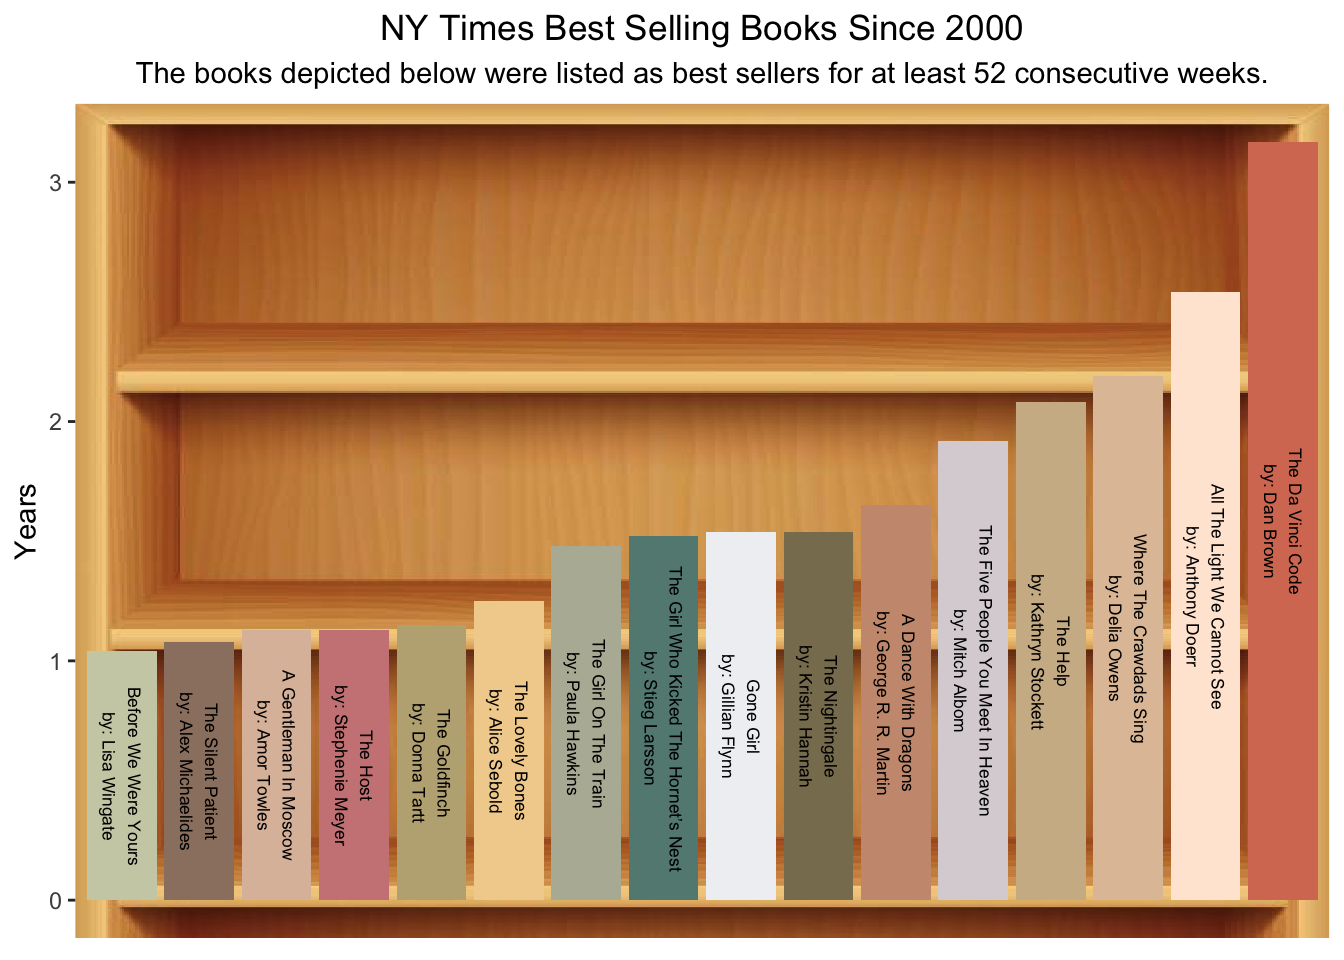
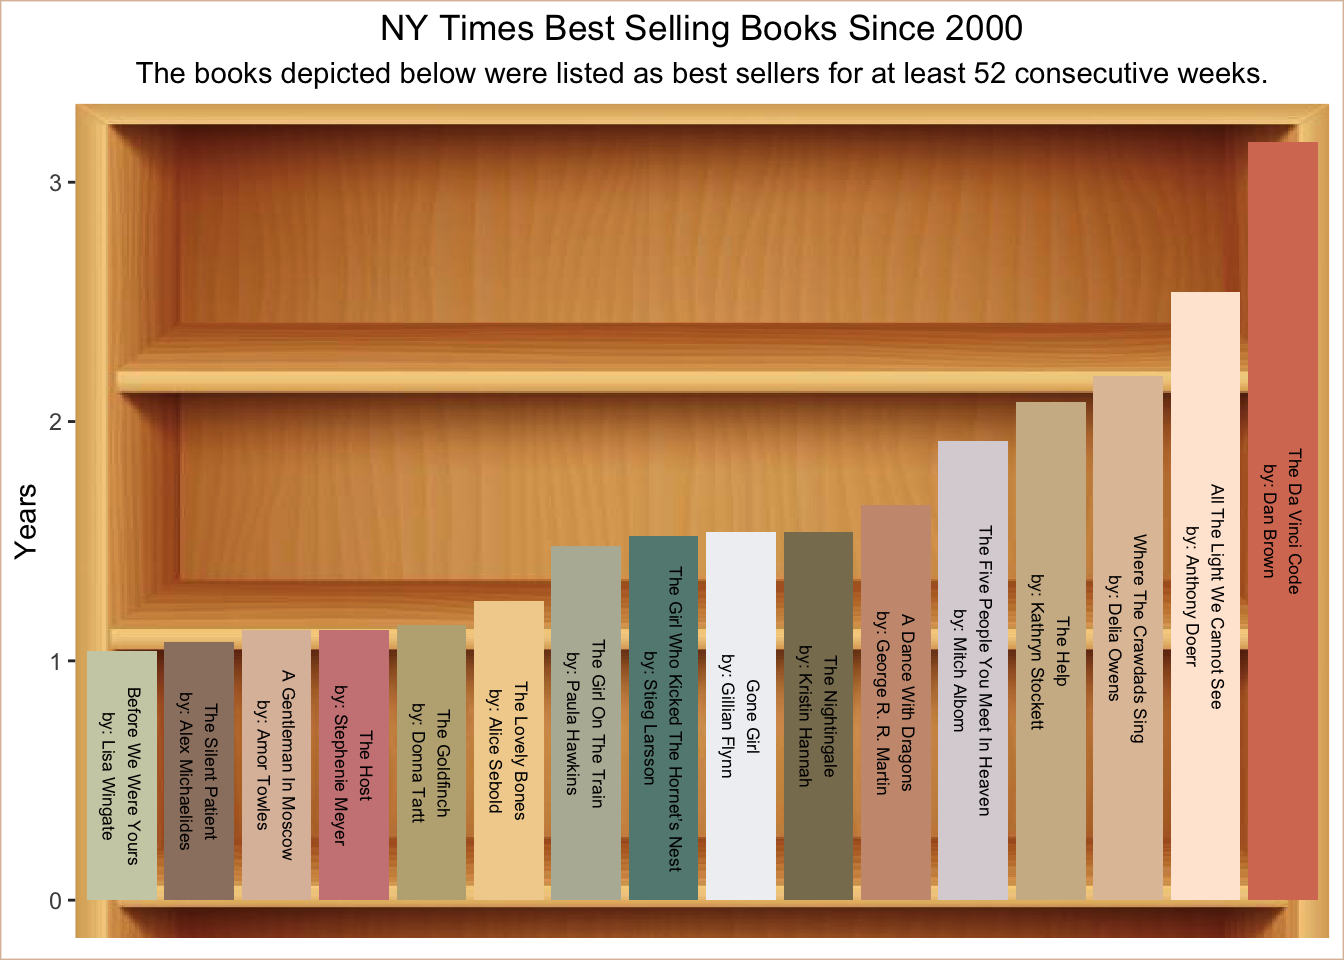
deleted phone number and added to NYT Best Sellers

diff --git a/content/post/Tidy Tuesday - NY Times Best Sellers/index.en.md b/content/post/Tidy Tuesday - NY Times Best Sellers/index.en.md
@@ -1,14 +1,14 @@
 ---
-title: TEST
-author: R package build
+title: Tidy Tuesday Visualizations - NY Times Best Sellers
+author: Hana
 date: '2023-03-21'
-slug: test
+slug: Tidy Tuesday - Visualization
 categories: []
 tags:
   - Data Analysis
   - Visualizations
   - TidyTuesday
-subtitle: ''
+subtitle: 'May 11, 2022 - Tidy Tuesday Data Visualization'
 summary: ''
 authors: []
 lastmod: '2023-03-21T18:54:23-04:00'
@@ -20,15 +20,20 @@ image:
   preview_only: no
 projects: []
 ---
+
+As an avid reader, I was particularly interested in this dataset. I am constantly looking for a new *best* book to read so this dataset was particularly fun to work with. 
+
+
 ## Loading Packages / Data
 
 
-```r
-library("pacman") 
-p_load(dplyr, tidyverse, extrafont, ggplot2, lubridate, tidyr, data.table, rlist, xlsx, tidytuesdayR, ggpubr, jpeg)
 
-
-tuesdata <- tidytuesdayR::tt_load('2022-05-10')
+```
+## Only 10 Github queries remaining until 2023-03-22 03:33:18 PM EDT.
+## Only 10 Github queries remaining until 2023-03-22 03:33:18 PM EDT.
+## Only 10 Github queries remaining until 2023-03-22 03:33:18 PM EDT.
+## Only 10 Github queries remaining until 2023-03-22 03:33:18 PM EDT.
+## Only 10 Github queries remaining until 2023-03-22 03:33:18 PM EDT.
 ```
 
 ```
@@ -36,7 +41,15 @@ tuesdata <- tidytuesdayR::tt_load('2022-05-10')
 ```
 
 ```
+## Only 9 Github queries remaining until 2023-03-22 03:33:18 PM EDT.
+```
+
+```
 ## --- There are 2 files available ---
+```
+
+```
+## Only 8 Github queries remaining until 2023-03-22 03:33:18 PM EDT.
 ```
 
 ```
@@ -44,12 +57,15 @@ tuesdata <- tidytuesdayR::tt_load('2022-05-10')
 ```
 
 ```
-## 
+## Only 8 Github queries remaining until 2023-03-22 03:33:18 PM EDT.
+```
+
+```
 ## 	Downloading file 1 of 2: `nyt_titles.tsv`
 ```
 
 ```
-## Only 10 Github queries remaining until 2023-03-21 07:44:01 PM EDT.
+## Only 7 Github queries remaining until 2023-03-22 03:33:17 PM EDT.
 ```
 
 ```
@@ -57,7 +73,7 @@ tuesdata <- tidytuesdayR::tt_load('2022-05-10')
 ```
 
 ```
-## Only 9 Github queries remaining until 2023-03-21 07:44:00 PM EDT.
+## Only 6 Github queries remaining until 2023-03-22 03:33:17 PM EDT.
 ```
 
 ```
@@ -71,16 +87,9 @@ tuesdata <- tidytuesdayR::tt_load('2022-05-10')
 ## --- Download complete ---
 ```
 
-```r
-tuesdata <- tidytuesdayR::tt_load(2022, week = 19)
 ```
-
-```
-## Only 8 Github queries remaining until 2023-03-21 07:44:01 PM EDT.
-```
-
-```
-## Only 8 Github queries remaining until 2023-03-21 07:44:01 PM EDT.
+## Only 5 Github queries remaining until 2023-03-22 03:33:18 PM EDT.
+## Only 5 Github queries remaining until 2023-03-22 03:33:18 PM EDT.
 ```
 
 ```
@@ -88,7 +97,7 @@ tuesdata <- tidytuesdayR::tt_load(2022, week = 19)
 ```
 
 ```
-## Only 8 Github queries remaining until 2023-03-21 07:44:01 PM EDT.
+## Only 5 Github queries remaining until 2023-03-22 03:33:18 PM EDT.
 ```
 
 ```
@@ -96,7 +105,7 @@ tuesdata <- tidytuesdayR::tt_load(2022, week = 19)
 ```
 
 ```
-## Only 7 Github queries remaining until 2023-03-21 07:44:01 PM EDT.
+## Only 4 Github queries remaining until 2023-03-22 03:33:18 PM EDT.
 ```
 
 ```
@@ -104,7 +113,7 @@ tuesdata <- tidytuesdayR::tt_load(2022, week = 19)
 ```
 
 ```
-## Only 7 Github queries remaining until 2023-03-21 07:44:01 PM EDT.
+## Only 4 Github queries remaining until 2023-03-22 03:33:18 PM EDT.
 ```
 
 ```
@@ -112,7 +121,7 @@ tuesdata <- tidytuesdayR::tt_load(2022, week = 19)
 ```
 
 ```
-## Only 6 Github queries remaining until 2023-03-21 07:44:01 PM EDT.
+## Only 3 Github queries remaining until 2023-03-22 03:33:18 PM EDT.
 ```
 
 ```
@@ -120,7 +129,7 @@ tuesdata <- tidytuesdayR::tt_load(2022, week = 19)
 ```
 
 ```
-## Only 5 Github queries remaining until 2023-03-21 07:44:01 PM EDT.
+## Only 2 Github queries remaining until 2023-03-22 03:33:17 PM EDT.
 ```
 
 ```
@@ -133,11 +142,11 @@ tuesdata <- tidytuesdayR::tt_load(2022, week = 19)
 ```
 ## --- Download complete ---
 ```
+## Visualizing Books in the Best Sellers List for 1 Year Since 2000 
 
-```r
-nyt_titles <- tuesdata$nyt_titles
-```
-## Visualizing Best Sellers Since 2000 for at least 1 year
+The Best Sellers list contains books starting in the year 1931 to 2020. I decided to filter the data to only include best sellers from the 21st century. To really get the cream of the crop, I filtered the data again, so that all books included in this analysis were listed as a best seller for at least 52 weeks (1 year). 
+
+As shown in the visualization below, the number one bestseller within this time range was The Da Vinci Code by Dan Brown, a book that I still need to read. Of the 16 books listed, my person favorite book that I've read thus far, was "The Silent Patient", there's nothing better than a good thriller! 
 
 
 ```r
@@ -172,13 +181,64 @@ ggplot(year_bestsellers, aes(y = total_years, x = reorder(booktitle, total_years
         axis.ticks.x = element_blank(), 
         legend.position = "none", 
         plot.title = element_text(hjust = 0.5),
-        plot.subtitle = element_text(hjust = 0.5)
+        plot.subtitle = element_text(hjust = 0.5),
+        plot.background = element_rect(colour = "#ddbea9"),
   )
 ```
 
 <img src="{{< blogdown/postref >}}index.en_files/figure-html/unnamed-chunk-2-1.png" width="672" />
 
+## Examining Trends in Best Sellers that were Ranked #1 AND were Best Sellers For the Most Weeks that Year
 
+Ac
+
+
+```r
+library(plotly)
+```
+
+```
+## 
+## Attaching package: 'plotly'
+```
+
+```
+## The following object is masked from 'package:ggplot2':
+## 
+##     last_plot
+```
+
+```
+## The following object is masked from 'package:stats':
+## 
+##     filter
+```
+
+```
+## The following object is masked from 'package:graphics':
+## 
+##     layout
+```
+
+```r
+ranked_books <- nyt_titles %>%
+  filter(best_rank == 1) %>%
+  arrange(desc(total_weeks)) %>%
+  group_by(year) %>%
+  slice(1) %>% 
+  mutate(debut_rank_cat = case_when(
+    debut_rank <= 5 ~ "Ranked 1-5", 
+    debut_rank > 5 & debut_rank <= 10 ~ "Ranked 5-10",
+    debut_rank > 10 & debut_rank <= 15 ~ "Ranked 10-15", 
+    TRUE ~ "Ranked 16-20"
+  ))
+ranked_books$debut_rank <- factor(ranked_books$debut_rank, levels = c("Ranked 1-5", "Ranked 5-10", "Ranked 10-15", "Ranked 16-20"))
+test <- ggplot(ranked_books, aes(x = year, y = total_weeks, fill = debut_rank_cat, lable = title)) + 
+  geom_bar(stat = "identity", position = "dodge") + 
+  scale_fill_manual(values = c("#796535", "#8d8233", "#da8936", "#d6695a")) +
+  labs(title= "#1 Ranked Best Selling Books for Each Year (1931-2020)", y = "Total Weeks as a Best Seller", fill = "What was the book\nranked when\nit first debuted?", y = "Year") + 
+  theme(panel.background = element_rect(fill = "white"))
+```
 ## References
 
 [1] Kays R, Dunn RR, Parsons AW, Mcdonald B, Perkins T, Powers S, Shell L, McDonald JL, Cole H, Kikillus H, Woods L, Tindle H, Roetman P (2020) The small home ranges and large local ecological impacts of pet cats. Animal Conservation. doi:10.1111/acv.12563

diff --git a/content/home/contact.md b/content/home/contact.md
@@ -26,7 +26,7 @@ content:
 
   # Contact details (edit or remove options as required)
   email: hkulman@mix.wvu.edu
-  phone: 304 240 4033
+  phone: 
 
 
 design:
